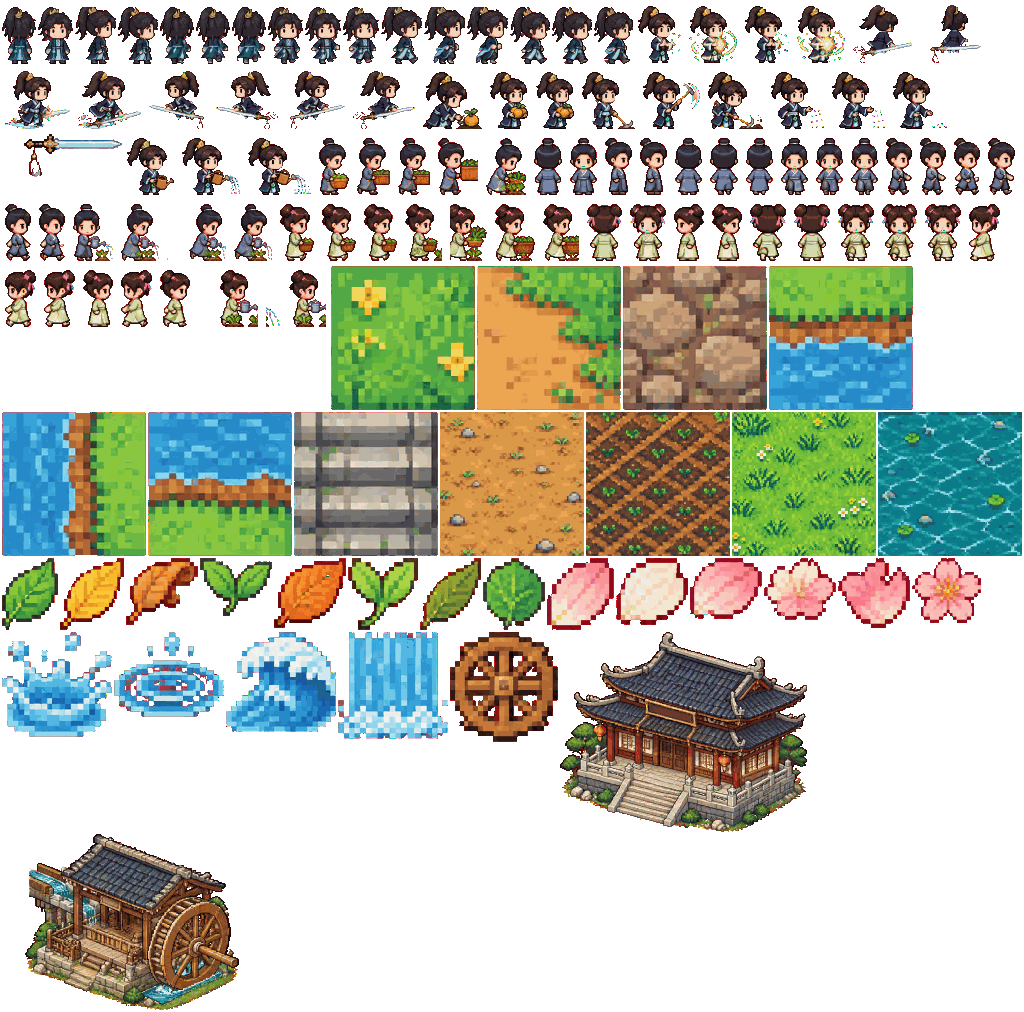
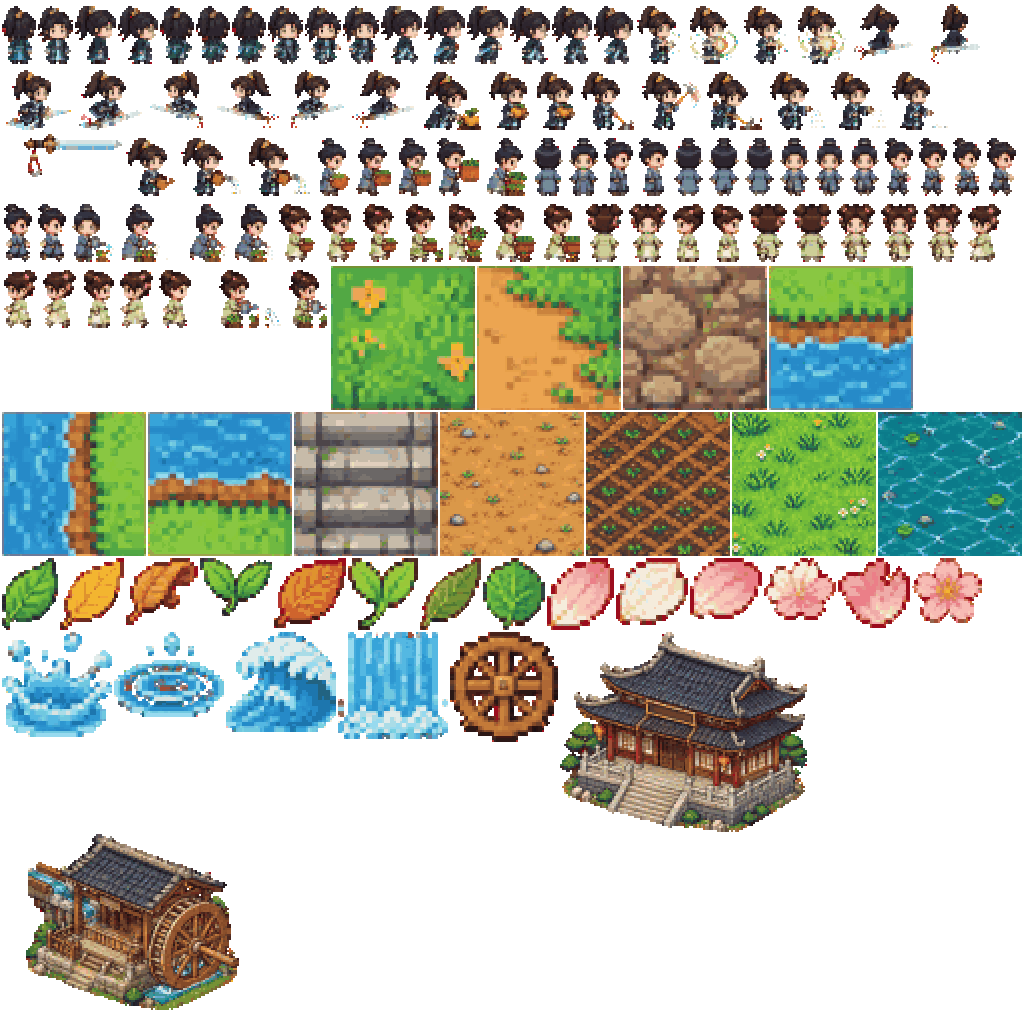
fix14 像素清晰化：图集真像素化后处理（逐帧降采样+硬轮廓+共享调色板）/人物整数倍率/地面÷2/田区不起飞/名牌适配/矿口等11处碰撞补缺

diff --git a/index.html b/index.html
@@ -237,8 +237,8 @@ body.pxf-on .icnL-stamina { background-position:-122.5px -240.0px; }
 body.pxf-on .icnL-steward { background-position:-24.5px -264.5px; }
 body.pxf-on .icnL-vault { background-position:-49.0px -264.5px; }
 body.pxf-on .icnL-xuanyu { background-position:-318.5px -240.0px; }
-body.pxf-on .plaqueBanner { background-image:url('assets/atlas_pxf_ui.png'); aspect-ratio:600/185; background-size:234.67% 623.78%; background-position:0.00% 33.33%; }
-body.pxf-on .sp-plaque-img { background-image:url('assets/atlas_pxf_ui.png'); aspect-ratio:600/185; background-size:234.67% 623.78%; background-position:0.00% 33.33%; }
+body.pxf-on .plaqueBanner { background-image:url('assets/atlas_pxf_ui.png'); aspect-ratio:600/185; background-size:234.67% 623.78%; background-position:0.00% 33.33%; image-rendering:pixelated; }
+body.pxf-on .sp-plaque-img { background-image:url('assets/atlas_pxf_ui.png'); aspect-ratio:600/185; background-size:234.67% 623.78%; background-position:0.00% 33.33%; image-rendering:pixelated; }
 </style>
 </head>
 <body>
@@ -300,6 +300,7 @@ const CONFIG = {
   ],
   farm: {
     cols: 4, rows: 3, plotW: 56, plotH: 42, gap: 12, originX: 150, originY: 620,
+    groundMargin: 64,   // fix14：田区强制地面模式外扩（站在地块边互动的站位也算田区，见 Actor.inFarmArea）
     defaultTier: 1, defaultCrop: 'lingzhi',
     demoTier1Ms: 6000,                                           // 仅 ?demo=1 冒烟测试用
   },
@@ -1339,6 +1340,19 @@ const Scene = {
     { x: 886, y: 992, w: 58, h: 150 },    // 山门右柱（中央留门洞，gate 锚点在洞内）
     { x: 60, y: 80, w: 80, h: 72 }, { x: 1330, y: 700, w: 80, h: 72 },
     { x: 120, y: 960, w: 80, h: 72 }, { x: 1450, y: 980, w: 80, h: 72 },
+    /* fix14：场景道具贴地脚印补缺——此前矿口洞口本体/矿车/水晶/栅栏/灯柱/灌木/花丛均无碰撞、可直接穿模
+       （旧四盒为原树位遗留）。脚印口径与建筑基座一致：只挡基座段，图面其余部分靠 Y 排序遮挡。 */
+    { x: 1305, y: 160, w: 190, h: 40 },  // 后山矿口洞口基座（图 1295,51,210×149，pxf 底边 200；mineWork 锚点 1400,210 在盒南侧可达）
+    { x: 1266, y: 274, w: 68, h: 22 },   // 灵石水晶（图 1258,230,84×66）
+    { x: 1474, y: 270, w: 88, h: 26 },   // 矿车（图 1466,222,104×74）
+    { x: 306, y: 924, w: 108, h: 20 },   // 木栅栏·西（图 300,884,120×62）
+    { x: 1186, y: 924, w: 108, h: 20 },  // 木栅栏·东（图 1180,884,120×62）
+    { x: 634, y: 1044, w: 12, h: 14 },   // 灯柱·西（图 618,1006,40×56）
+    { x: 966, y: 1044, w: 12, h: 14 },   // 灯柱·东（图 950,1006,40×56）
+    { x: 674, y: 306, w: 32, h: 16 },    // 灌木·坊前坪（图 652,268,76×58）
+    { x: 1012, y: 628, w: 32, h: 16 },   // 灌木·出货台西（图 990,590,76×58）
+    { x: 984, y: 278, w: 32, h: 14 },    // 花丛·坊前（图 958,240,72×56）
+    { x: 1006, y: 1040, w: 32, h: 14 },  // 花丛·山门东（图 980,1002,72×56）
     // 后山矿口围栏（M1 上锁，扩建接口预留：unlockZone 时移除 barrier 并重建碰撞）
     { x: 1240, y: 40, w: 328, h: 14 }, { x: 1240, y: 40, w: 14, h: 280 }, { x: 1554, y: 40, w: 14, h: 280 },
     { x: 1240, y: 306, w: 140, h: 14 }, { x: 1420, y: 306, w: 148, h: 14 },
@@ -1413,7 +1427,8 @@ const Scene = {
      变体与镜像由格哈希决定，双草地交替降重复感。_tileCache 按 贴图|尺寸|压暗 缓存。 */
   _tileCache: {},
   _softTile(name, size, shade){
-    const key = name + '|' + size + '|' + (shade || 1);
+    const soft = this._tileSoft || 0.72;   // fix14：像素层构建期临时收窄羽化带（0.9），HD 地面维持 0.72
+    const key = name + '|' + size + '|' + (shade || 1) + '|' + soft;
     if (this._tileCache[key]) return this._tileCache[key];
     const f = Art.F[name]; if (!f) return null;
     const t = document.createElement('canvas'); t.width = t.height = size;
@@ -1424,7 +1439,7 @@ const Scene = {
       tg.globalCompositeOperation = 'source-over'; }
     tg.globalCompositeOperation = 'destination-in';
     const gr = tg.createRadialGradient(size / 2, size / 2, size * 0.30, size / 2, size / 2, size * 0.52);
-    gr.addColorStop(0, 'rgba(0,0,0,1)'); gr.addColorStop(0.72, 'rgba(0,0,0,1)'); gr.addColorStop(1, 'rgba(0,0,0,0)');
+    gr.addColorStop(0, 'rgba(0,0,0,1)'); gr.addColorStop(soft, 'rgba(0,0,0,1)'); gr.addColorStop(1, 'rgba(0,0,0,0)');
     tg.fillStyle = gr; tg.fillRect(0, 0, size, size);
     this._tileCache[key] = t; return t;
   },
@@ -1540,7 +1555,7 @@ const Scene = {
      file:// 下读像素被污染则只降采样不锁色。试点层以此为兜底基底（石板坪/岩面等无原生贴图区沿用它）。 */
   _pixelBaseCanvas(){
     const src = this.staticLayer; if (!src) return null;
-    const F = 3, w = Math.floor(CONFIG.world.w / F), h = Math.floor(CONFIG.world.h / F);
+    const F = 2, w = Math.floor(CONFIG.world.w / F), h = Math.floor(CONFIG.world.h / F);   // fix14：÷3→÷2，地面 texel（2 世界px）与人物 texel（≈1.95）对齐，消除像素尺度三倍差
     const c = document.createElement('canvas'); c.width = w; c.height = h;
     const g = c.getContext('2d'); g.imageSmoothingEnabled = true;
     g.drawImage(src, 0, 0, w, h);
@@ -1564,29 +1579,31 @@ const Scene = {
   /* 像素地面层（全量批 v2）：布局与 _paintGroundTextured 逐项同构，贴图源全换原生像素——
      草地 pxp 草 A＋pxf 草 B（S7 带花）双贴图马赛克 → 土路动线 → 药圃田基 → 池塘水面＋S7 岸线三向
      → 矿区岩面（S7）→ 石板前坪×5 与大殿石阶（S7 台阶格，石板/台阶共用此格——生图侧清单本就同格）。
-     pxf 地面帧未就绪才回退试点口径（石板/矿区/石阶从样板基底裁回）。构建在 ÷3 层上，最近邻出图。 */
+     pxf 地面帧未就绪才回退试点口径（石板/矿区/石阶从样板基底裁回）。构建在 ÷2 层上（fix14 由 ÷3 改），最近邻出图。 */
   _buildPixelLayerNative(){
     const base = this._pixelBaseCanvas(); if (!base){ this.pixelLayer = null; return; }
     if (!Art.F['pxp_gnd_grass_v1.png'] || !Art.F['pxp_gnd_dirt_v1.png'] || !Art.F['pxp_gnd_field_v1.png'] || !Art.F['pxp_gnd_water_v1.png']){ this.pixelLayer = null; return; }
-    const F = 3, W = CONFIG.world.w, H = CONFIG.world.h;
+    const F = 2, W = CONFIG.world.w, H = CONFIG.world.h;   // fix14：÷3→÷2（与 _pixelBaseCanvas 同步）
     const c = document.createElement('canvas'); c.width = base.width; c.height = base.height;
     const g = c.getContext('2d'); g.imageSmoothingEnabled = false;
     g.drawImage(base, 0, 0);
+    this._tileSoft = 0.9;   // fix14：像素层贴块羽化带收窄（接缝仍由 28+ 单位重叠盖住），构建完恢复
     g.save(); g.scale(1 / F, 1 / F);
     const full = !!Art.F['pxf_gnd_rock.png'];
     const grassSet = full ? ['pxp_gnd_grass_v1.png', 'pxf_gnd_grassb.png'] : ['pxp_gnd_grass_v1.png'];
-    this._mosaic(g, grassSet, -40, -40, W + 80, H + 80, 168, 116, 7);
+    /* fix14：贴图尺寸统一 144＝地面帧原生边长（处理后逻辑格 72），层内采样恰为逻辑格 1:1，不再二次重采样糊化 */
+    this._mosaic(g, grassSet, -40, -40, W + 80, H + 80, 144, 116, 7);
     const dirt = ['pxp_gnd_dirt_v1.png'];
-    this._mosaic(g, dirt, 756, 240, 88, 920, 132, 94, 21);
-    this._mosaic(g, dirt, 120, 812, 1330, 64, 132, 94, 22);
-    this._mosaic(g, dirt, 410, 560, 60, 260, 132, 94, 23);
-    this._mosaic(g, dirt, 756, 1064, 560, 40, 132, 94, 24);
+    this._mosaic(g, dirt, 756, 240, 88, 920, 144, 94, 21);
+    this._mosaic(g, dirt, 120, 812, 1330, 64, 144, 94, 22);
+    this._mosaic(g, dirt, 410, 560, 60, 260, 144, 94, 23);
+    this._mosaic(g, dirt, 756, 1064, 560, 40, 144, 94, 24);
     const f = CONFIG.farm;
-    this._mosaic(g, ['pxp_gnd_field_v1.png'], f.originX - 14, f.originY - 14, f.cols * (f.plotW + f.gap) + 16, f.rows * (f.plotH + f.gap) + 16, 120, 88, 51);
+    this._mosaic(g, ['pxp_gnd_field_v1.png'], f.originX - 14, f.originY - 14, f.cols * (f.plotW + f.gap) + 16, f.rows * (f.plotH + f.gap) + 16, 144, 88, 51);
     /* 水面硬裁切：_softTile 贴块带羽化、视觉外溢约半块会压到药圃西列地块下（田块如浮水面）；
        按池塘实占（碰撞西段 0..140）裁切收边，矩形范围同裁切口径（初版无裁切＋宽 232 双重溢出，fix12 田池对照实证） */
     g.save(); g.beginPath(); g.rect(-10, 492, 160, 180); g.clip();
-    this._mosaic(g, ['pxp_gnd_water_v1.png'], -10, 492, 160, 180, 140, 100, 41);
+    this._mosaic(g, ['pxp_gnd_water_v1.png'], -10, 492, 160, 180, 144, 100, 41);
     g.restore();
     const dr = (n, x, y, w, h) => { const fr = Art.F[n]; if (fr) g.drawImage(fr.img, fr.x, fr.y, fr.w, fr.h, x, y, w, h); };
     if (full){
@@ -1597,13 +1614,13 @@ const Scene = {
       dr('pxf_gnd_shore_e.png', 202, 494, 40, 176);
       /* 矿区岩面 */
       g.save(); g.beginPath(); g.rect(1240, 40, 328, 292); g.clip();
-      this._mosaic(g, ['pxf_gnd_rock.png'], 1240, 40, 328, 292, 168, 116, 61);
+      this._mosaic(g, ['pxf_gnd_rock.png'], 1240, 40, 328, 292, 144, 116, 61);
       g.restore();
       /* 石板前坪 ×5（裁切内马赛克）＋大殿石阶（整格拉伸） */
       const plazas = [[596, 96, 408, 252], [364, 116, 312, 240], [1052, 286, 356, 282], [984, 624, 316, 244], [528, 924, 544, 276]];
       plazas.forEach(([x, y, kw, kh], i) => {
         g.save(); g.beginPath(); g.rect(x, y, kw, kh); g.clip();
-        this._mosaic(g, ['pxf_gnd_steps.png'], x, y, kw, kh, 168, 116, 71 + i);
+        this._mosaic(g, ['pxf_gnd_steps.png'], x, y, kw, kh, 144, 116, 71 + i);
         g.restore();
       });
       dr('pxf_gnd_steps.png', 742, 230, 116, 106);
@@ -1615,6 +1632,7 @@ const Scene = {
       for (const [x, y, kw, kh] of keep)
         g.drawImage(base, x / F, y / F, kw / F, kh / F, x / F, y / F, kw / F, kh / F);
     }
+    this._tileSoft = 0.72;   // fix14：羽化口径恢复 HD 默认
     this.pixelLayer = c;
   },
 };
@@ -1649,7 +1667,8 @@ const Actor = {
        升降按 riseMs 平滑趋近，落地判定用 lastMoveAt 与真实时间，不吃帧率。 */
     const now = nowMs();
     if (p.moving) p.lastMoveAt = now;
-    const flyTarget = (now - p.lastMoveAt < CONFIG.flight.landDelayMs) ? CONFIG.flight.height : 0;
+    /* fix14：田区内 flyTarget 恒 0——耕地时移动不再升空（飞入田区也按 riseMs 平滑落地衔接） */
+    const flyTarget = (!this.inFarmArea(p) && now - p.lastMoveAt < CONFIG.flight.landDelayMs) ? CONFIG.flight.height : 0;
     p.flyH += (flyTarget - p.flyH) * Math.min(1, dt / (CONFIG.flight.riseMs / 3));
     if (Math.abs(flyTarget - p.flyH) < 0.1) p.flyH = flyTarget;
     if (flyTarget > 0 && p.flyH > CONFIG.flight.height * 0.6 && !p._sndAir){ p._sndAir = true; Sfx.play('sword'); }
@@ -1662,6 +1681,14 @@ const Actor = {
     S.player.x = p.x; S.player.y = p.y; S.player.facing = p.facing;
   },
   playAction(name){ this.player.animState = 'action:' + name; this.player.actionUntil = nowMs() + 450; },   // 追加批5：450ms＝3 帧×150ms 完整一轮
+  /* fix14：灵田强制地面判定——田区＝地块阵列外扩 groundMargin 的矩形（站在地块南/侧边互动的
+     站位也落在区内）。区内移动不起飞（行走帧）、劳作动画不被御剑打断；离开田区恢复移动即御剑。
+     用矩形而非逐地块邻近：判定 O(1)、边界稳定不抖动。弟子无 flyH 机制、不受影响。 */
+  inFarmArea(p){
+    const f = CONFIG.farm, m = f.groundMargin || 0;
+    const w = f.cols * (f.plotW + f.gap) - f.gap, h = f.rows * (f.plotH + f.gap) - f.gap;
+    return p.x > f.originX - m && p.x < f.originX + w + m && p.y > f.originY - m && p.y < f.originY + h + m;
+  },
   getPlayerPos(){ return { x: this.player.x, y: this.player.y }; },
 };
 
@@ -3728,8 +3755,11 @@ const Render = {
     let dwP, dhP, dx, dy;
     if (pxNative && B3){
       /* 像素试点几何：不用 HD 的 (fW/96) 宽度口径（那是为 96×144 母版标定的），按帧原生宽高比出图——
-         高度与 HD 同为 DH（内容高占比同归一），宽度随帧宽高比，锚点按 BODY3 帧内实测行列对位。 */
-      dhP = DH * K4; dwP = dhP * (fW / fH);
+         高度与 HD 同为 DH（内容高占比同归一），宽度随帧宽高比，锚点按 BODY3 帧内实测行列对位。
+         fix14：整数倍率绘制——倍率按目标高取整（64px 帧→×2、dhP=128），dw/dh 恒为源帧整数倍；
+         旧口径 dhP=125 对 64px 帧＝1.953 分数倍率，逐 texel 采样宽窄不均＝真机发糊主因之一，现废止。 */
+      const kPx = Math.max(1, Math.round(DH * K4 / fH));
+      dhP = fH * kPx; dwP = fW * kPx;
       dx = e.x - cam.x - (B3[2] / fW) * dwP + sway;
       dy = e.y - cam.y - (B3[1] / fH) * dhP - bob - lift;
     } else if (B3){
@@ -3870,6 +3900,21 @@ const Render = {
     g.fillStyle = 'rgba(32,28,18,.20)';
     g.beginPath(); g.ellipse(cx - cam.x, baseY - cam.y, w / 2, Math.max(5, w * 0.055), 0, 0, Math.PI * 2); g.fill();
   },
+  /* fix14：铭牌文字适配——旧版恒 12px 字号＋measureText 实测宽定牌宽有两坑：
+     ①FusionPixelKZM 未加载完时 measureText 按回退字体量测偏小；②牌面纹理内框只占牌宽约
+     12%–88%，带图标时文字起点 27px＋四字名（后山矿口）＋锁定后缀直接溢出内框（主人实证只显三字）。
+     现行：字宽取「实测」与「字数×字号×0.99（点阵字每字约 1em）」的大者；超上限（170）逐级缩字号至 9；
+     牌宽按内框几何反推 w＝(文字起点＋字宽)/0.88＋4，保证全名落在内框内。返回后 g.font 已设为适配字号。 */
+  _fitPlate(label, hasIcn, px){
+    const g = this.ctx, start = hasIcn ? 27 : 8, maxTw = 170;
+    let fs = 12, tw = 0;
+    for (; fs >= 9; fs--){
+      g.font = px ? fs + 'px FusionPixelKZM, sans-serif' : '600 ' + fs + 'px sans-serif';
+      tw = Math.max(g.measureText(label).width, px ? label.length * fs * 0.99 : 0);
+      if (tw <= maxTw) break;
+    }
+    return { fs, tw, start, w: Math.ceil((start + tw) / 0.88) + 4 };
+  },
   /* 修复批③：建筑铭牌——头顶悬浮小牌（图标＋建筑名），靠近门前时金边高亮。
      Art 未就绪时退化为纯文字牌（与旧 drawBuilding 牌同口径）。 */
   _drawPlates(){
@@ -3885,10 +3930,9 @@ const Render = {
       if (y - 22 < 2) y = topY + 30;   // 贴世界顶边的建筑（大殿）：铭牌改挂檐口下，不画到界外
       const label = b.name + (b.id === 'mine' && Scene.isLocked('mineZone') ? ' · 未开放' : '');
       const pxPlateB = CONFIG.art.pixelSample && Art.readyPxu && Art.F['pxu_uic_nameplate.png'];
-      g.font = pxPlateB ? '12px FusionPixelKZM, sans-serif' : '600 12px sans-serif';
-      const tw = g.measureText(label).width;
       const hasIcn = Art.ready && Art.F['icn_' + b.icon + '_v1.png'];
-      const w = Math.ceil(tw) + (hasIcn ? 30 : 16), h = 22;
+      const fit = this._fitPlate(label, hasIcn, !!pxPlateB);   // fix14：字号/牌宽适配（字体已由 _fitPlate 设为适配字号）
+      const w = fit.w, h = 22;
       const x = cx - cam.x - w / 2;
       let yy = y - cam.y - h;
       if (yy < 84 && yy > -h) yy = 84;   // 建筑贴屏幕顶时铭牌压到 HUD 之下，不被顶栏盖住
